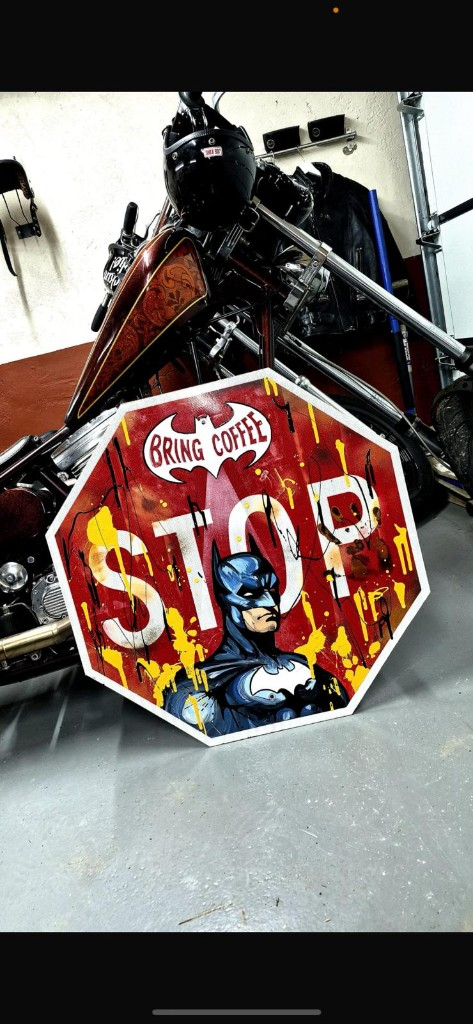
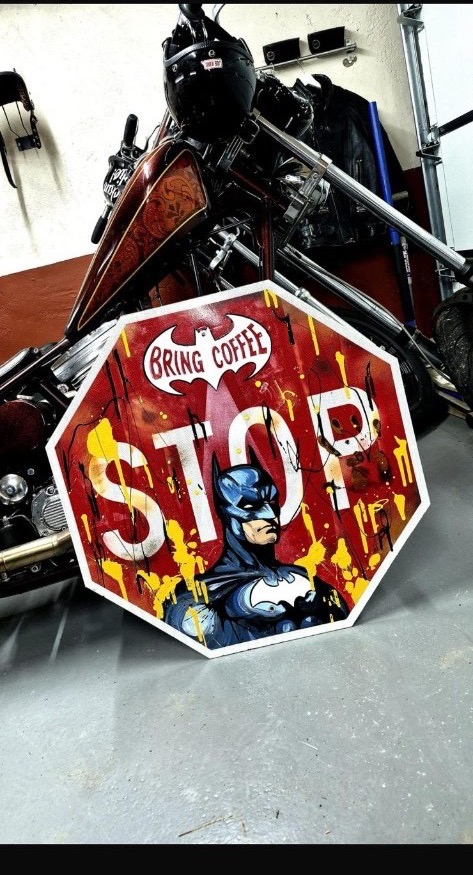
Crop iPhone chrome from batman image; fix landscape saw card gap
Made-with: Cursor

diff --git a/src/App.css b/src/App.css
@@ -791,6 +791,7 @@ h1, h2, h3,
 /* Image fills top of card */
 .shop-card-img {
   width: 100%;
+  height: 320px;
   position: relative;
   overflow: hidden;
   background: var(--dark3);
@@ -798,7 +799,9 @@ h1, h2, h3,
 
 .shop-card-img img {
   width: 100%;
-  height: auto;
+  height: 100%;
+  object-fit: cover;
+  object-position: center;
   display: block;
   transition: transform 0.5s ease, filter 0.4s ease;
   filter: saturate(0.88);
